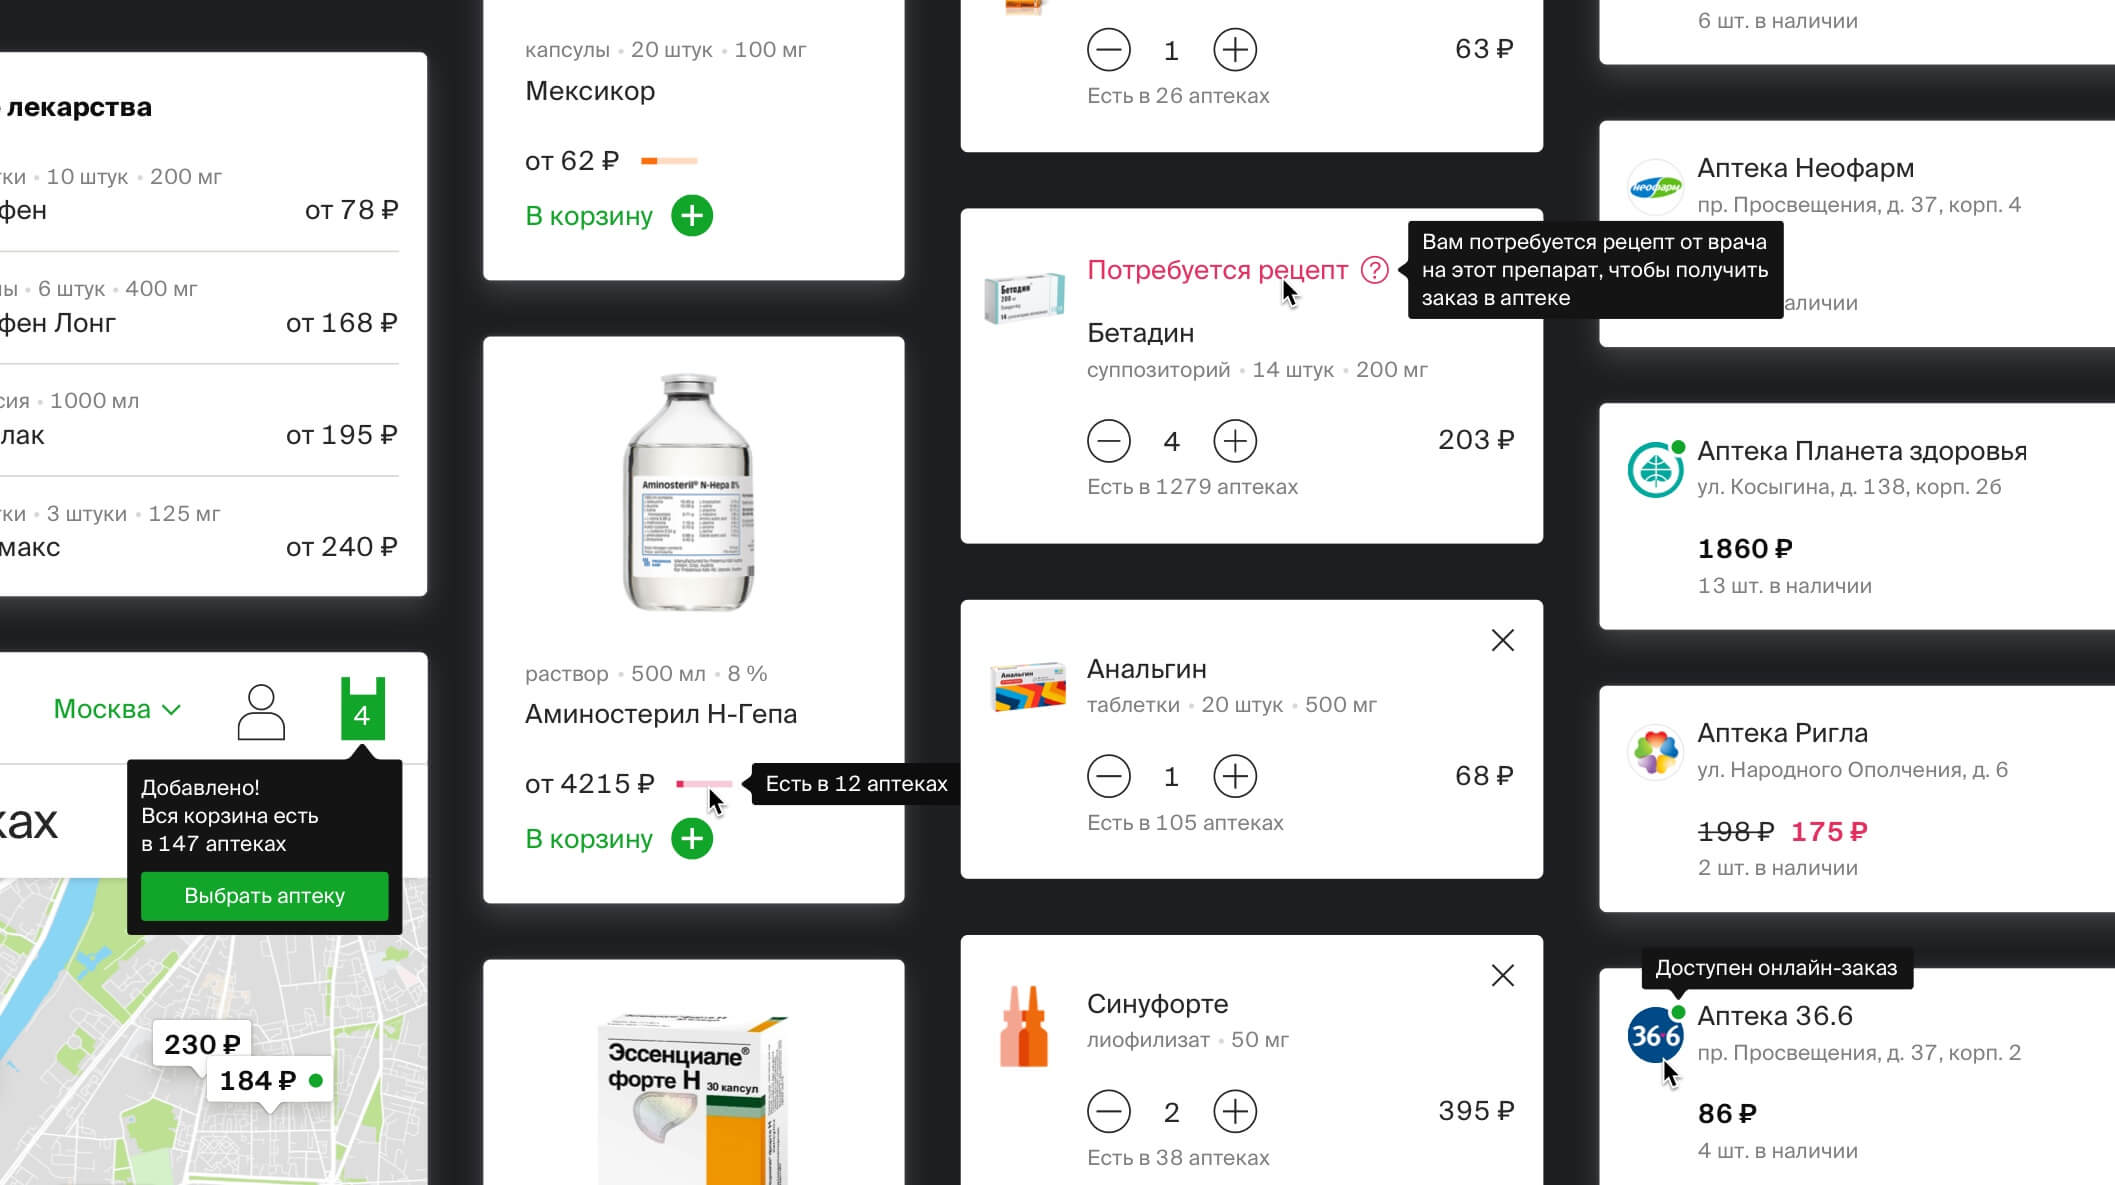
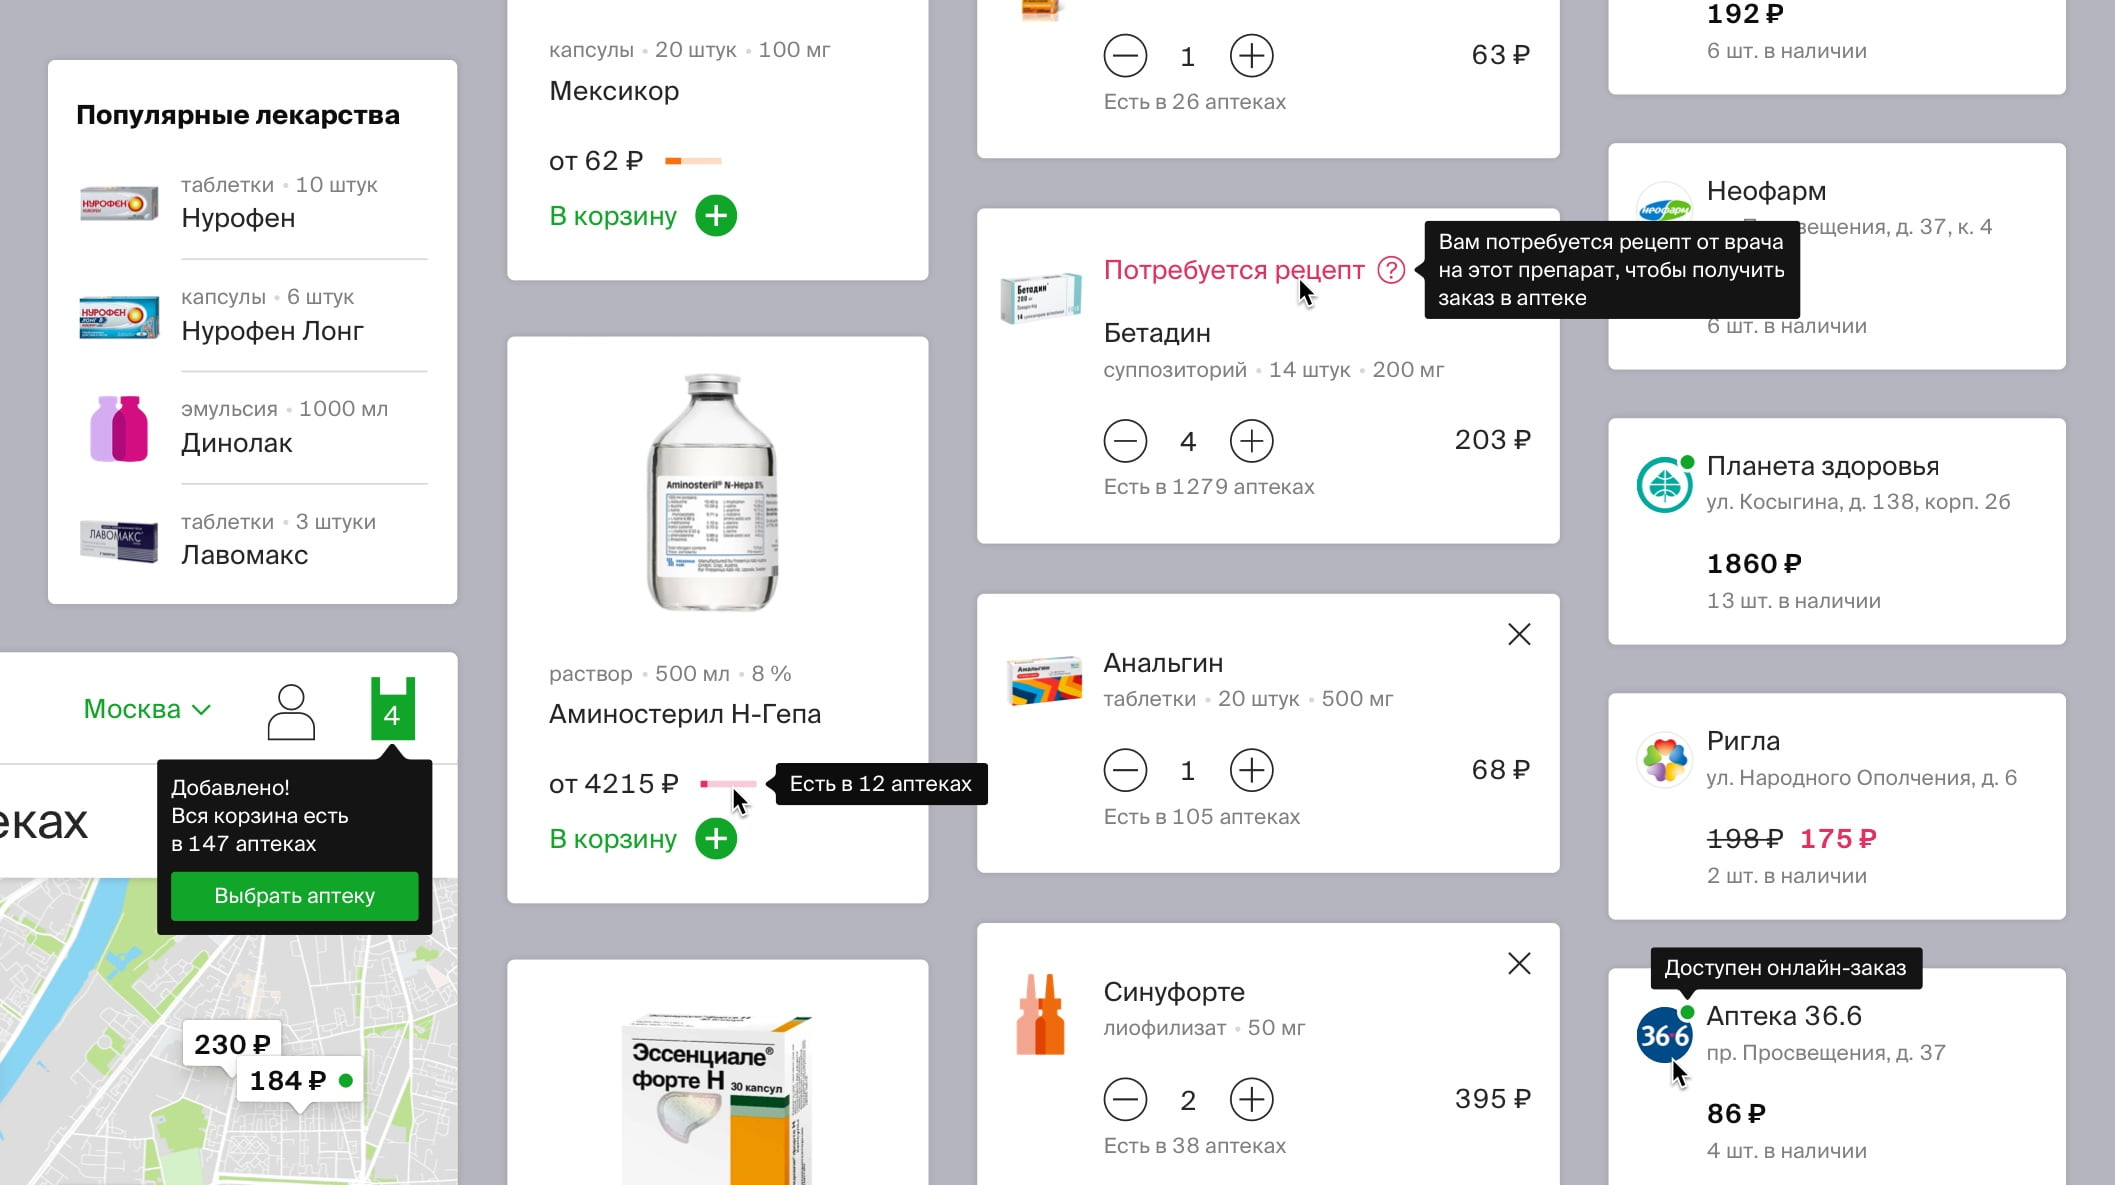
added photos to faster

diff --git a/data/casesDataDesktop.js b/data/casesDataDesktop.js
@@ -591,7 +591,7 @@ export const casesDataDesktop = [
             src: 'yango/desktop/6_desktop.jpg',
             preloader: 'yango/desktop/preloader-6_desktop.jpg'
           },
-          backgroundColor: '#AAACB5'
+          backgroundColor: '#9093a8'
         }
       },
       {
